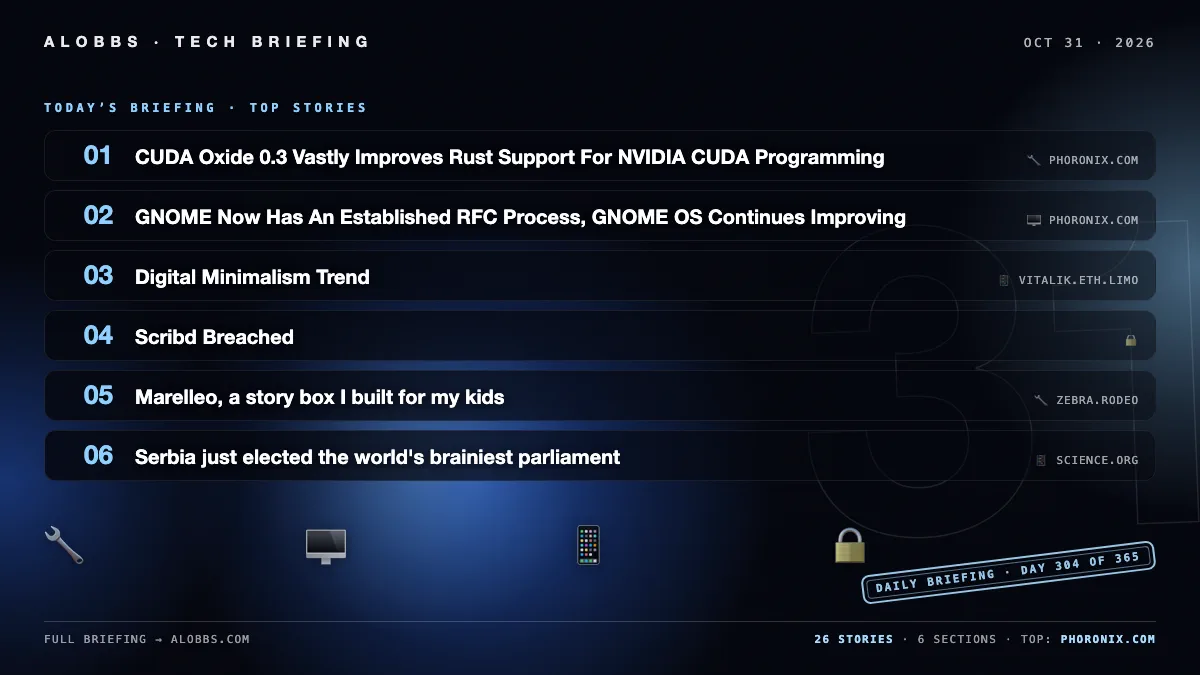
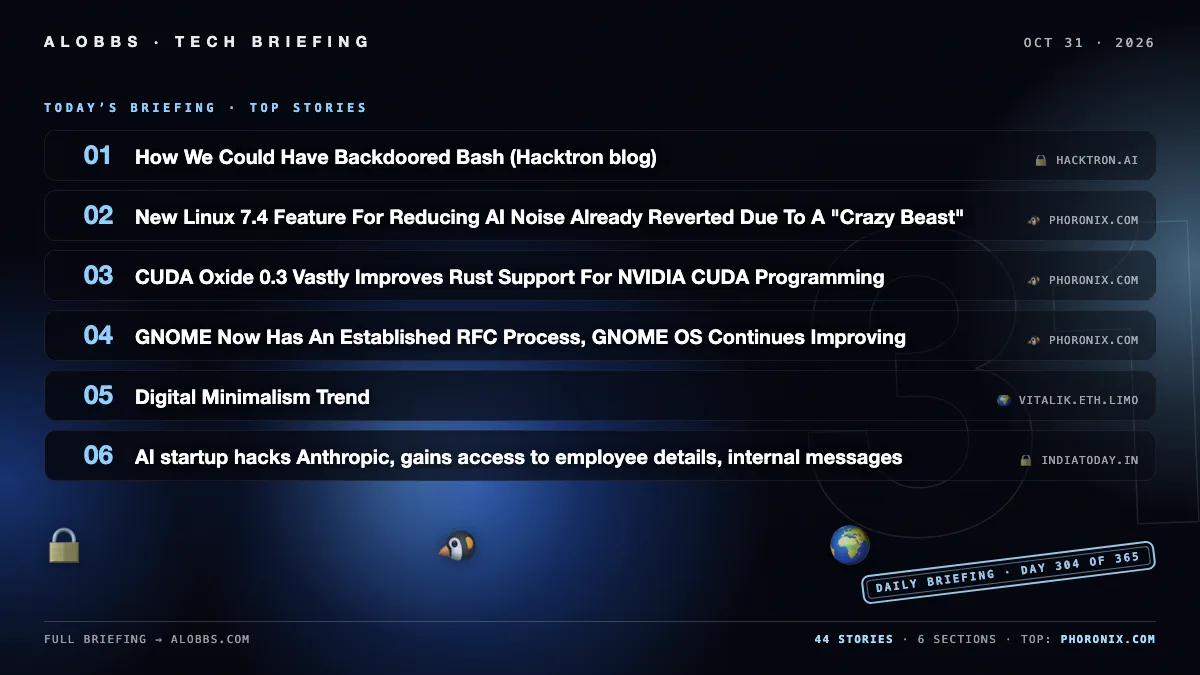
2026-10-31 briefing — 18 new (44 total)

diff --git a/content/post/2026-10-31.md b/content/post/2026-10-31.md
@@ -1,6 +1,6 @@
 ---
 title: "2026-10-31 Briefing"
-date: 2026-10-31 11:49:33.086531
+date: 2026-10-31 15:42:54.031622
 draft: false
 categories: [ "Briefing" ]
 params:
@@ -8,7 +8,7 @@ params:
 cover: "/images/briefings/2026-10-31.webp"
 ---
 
-Amazon’s mixed-message AI memo is rattling software engineers as AI anxiety grows. Nvidia’s networking revenue hit $17.5B in Q2, topping Cisco’s $17.3B total, underscoring its AI-driven rise. CUDA Oxide 0.3 boosts Rust-to-CUDA support; Wine 11.21 improves WoW64 OpenGL; and Molly, a Signal fork, remains unpatched and exposed to fixed Signal exploits. KDE Plasma 6.9 preps performance fixes, while GNOME adopts a formal RFC process.
+Nvidia’s Q2 networking revenue hit $17.5B, topping Cisco’s $17.3B total, as its Mellanox-backed, AI-optimized stack reshapes networking. Amazon’s mixed AI-use memo rattled engineers already anxious about automation. Linux 7.4’s TAINT_FORCED_BIND, meant to filter AI-generated bug noise, was reverted because VFIO needs bind/unbind; a revised taint may land in 7.5. KDE Plasma 6.9 added performance tweaks.
 
 <!--more-->
 
@@ -20,17 +20,11 @@ Amazon issued a mixed-message memo about AI use that unsettled its workforce. Th
 
 - [Amazon sends chills through its workforce with mixed message memo about AI use](https://www.theregister.com/ai-and-ml/2026/10/31/amazon-sends-chills-through-its-workforce-with-mixed-message-memo-about-ai-use-corey-quinn/5306804) — *theregister.com*
 
-### Backbone of a beast – charting Nvidia's rise to networking titan
+### AI detectors like Pangram are changing how authors write to seem human
 
-Nvidia has become a networking titan, with Q2 networking revenue reaching $17.5 billion—more than Cisco’s $17.3 billion in total revenue for the same period. The rise was driven by its $6.9 billion Mellanox acquisition in 2019 and its tightly integrated compute-and-networking approach optimized for AI workloads.
+Authors and students are altering their prose—avoiding em dashes, “not X, but Y” constructions, and words like “delve,” or adding typos—to avoid being flagged by AI detectors such as Pangram. The article illustrates the stakes through author Mia Ballard, whose novel Shy Girl was pulled by Hachette after Pangram rated it 78.3% AI-written, triggering harassment and a personal crisis.
 
-- [Backbone of a beast – charting Nvidia's rise to networking titan](https://www.theregister.com/networks/2026/10/31/backbone-of-a-beast-charting-nvidias-rise-to-networking-titan/5306499) — *theregister.com*
-
-### OpenAI fundraising falls short of target
-
-OpenAI has secured roughly $11 billion in commitments for its latest funding round, less than half of its $30 billion target, though it expects to raise more in coming weeks. The round values the company at $1.25 trillion, below its $1.4 trillion target, as market jitters over the AI trade dampened investor appetite.
-
-- [OpenAI raises less than half of $30B target](https://www.wsj.com/tech/ai/openai-raises-less-than-half-of-30-billion-target-in-latest-round-91aecdc5) — *wsj.com*
+- [AI detectors like Pangram are changing how authors write to seem human](https://www.bloomberg.com/news/features/2026-10-30/how-ai-detectors-like-pangram-are-changing-human-writing?accessToken=eyJhbGciOiJIUzI1NiIsInR5cCI6IkpXVCJ9.eyJzb3VyY2UiOiJTdWJzY3JpYmVyR2lmdGVkQXJ0aWNsZSIsImlhdCI6MTc5MzM2MDg2MCwiZXhwIjoxNzkzOTY1NjYwLCJhcnRpY2xlSWQiOiJUTlBLU0FLSVVQU0MwMCIsImJjb25uZWN0SWQiOiI1MEU0OTBGQjhDNTM0MkREODAwRUEyNTQ1RjBCMThCOCJ9.QWmO8ZCSYNuUI7oMX4N9wEkQtBDq_LYD89yJOMz3bfE) — *bloomberg.com*
 
 ### Bipartisan opposition grows to AI data centers in drought-stricken Arizona; TSMC welcomed
 
@@ -38,43 +32,31 @@ Arizona is seeing growing bipartisan backlash against new AI data centers, even 
 
 - [Bipartisan opposition grows to AI data centers in drought-stricken Arizona; TSMC welcomed](https://www.theverge.com/cs/features/1016650/arizona-water-data-center-tsmc/?view_token=eyJhbGciOiJIUzI1NiJ9.eyJpZCI6InFkdzJEQktYdUkiLCJwIjoiL2NzL2ZlYXR1cmVzLzEwMTY2NTAvYXJpem9uYS13YXRlci1kYXRhLWNlbnRlci10c21jIiwiZXhwIjoxNzkzNzE2ODI5LCJpYXQiOjE3OTMyODQ4Mjl9.2I3Q8YF72YlZ82qB1jITu1Pv_2X6WPGXSrMtVpL9JTE&amp;utm_medium=gift-link) — *theverge.com*
 
-### AI commoditization sends wealth to chokepoint owners—distribution, payments, stablecoin USD—not labs
-
-The article argues that as AI models commoditize, durable economic gains will go not to AI labs but to those controlling scarce chokepoints such as distribution, payment rails, and a stablecoin dollar. It frames these “commanding heights” as controllable positions of economic power that can capture the benefits of increasingly capable, diffused intelligence.
-
-- [AI commoditization sends wealth to chokepoint owners—distribution, payments, stablecoin USD—not labs](https://commanding-heights.com/) — *commanding-heights.com*
-
-### Altman: Supply-constrained DRAM belongs in data centers, not PCs used 5% of the time
-
-OpenAI CEO Sam Altman said it is “quite terrible” for the world’s supply-constrained DRAM to sit in home PCs and be used only about 5% of the time. He argued that memory is better allocated to data centers for maximum utilization, especially for local inference and cloud-based AI.
-
-- [Altman: Supply-constrained DRAM belongs in data centers, not PCs used 5% of the time](https://www.tomshardware.com/tech-industry/data-centers/openai-ceo-says-its-quite-terrible-for-your-pc-to-have-ram-sam-altman-says-data-centers-offer-better-utilization) — *tomshardware.com*
-
-### CoreWeave, Nebius, Nscale shut out of bond market as lenders demand tougher terms
-
-CoreWeave, Nebius, and Nscale have effectively been shut out of the bond market in recent weeks as lenders and investors demand tougher terms, according to the Wall Street Journal. The shift signals a new phase in the AI build-out, with concerns about project delays, data-center backlash, slower-than-promised AI profits, and investor overexposure to AI.
-
-- [CoreWeave, Nebius, Nscale shut out of bond market as lenders demand tougher terms](https://www.wsj.com/finance/the-new-bottleneck-in-americas-ai-build-out-a-shortage-of-cheap-money-0c14c84d?st=7gB5bX&amp;reflink=desktopwebshare_permalink) — *wsj.com*
-
-### S&P cuts Meta outlook to negative on capex, negative cash flow; META -15% in worst month in 4 yrs
-
-S&P Global Ratings revised Meta's outlook from stable to negative, citing uncertainty over elevated capital expenditures and negative free cash flow amid heavy AI spending. Meta disagreed with the assessment, while its stock fell 15% in October—its worst month in four years—after the company reported negative free cash flow and forecast full-year capex of $135 billion to $145 billion.
-
-- [S&P cuts Meta outlook to negative on capex, negative cash flow; META -15% in worst month in 4 yrs](https://www.cnbc.com/2026/10/30/meta-outlook-to-revised-to-negative-by-sp-after-cash-flow-negative.html) — *cnbc.com*
-
 ### Ternus: Apple won't ship AI for AI's sake; Cook helps on policy; no Trump meeting yet
 
 New Apple CEO John Ternus emphasized a product-first approach and said Apple does not “want to ship AI for AI’s sake.” The Apple veteran described himself as a continuity-focused leader, said Tim Cook is available to help on policy, and noted he has not yet met President Trump.
 
 - [Ternus: Apple won't ship AI for AI's sake; Cook helps on policy; no Trump meeting yet](https://www.wired.com/story/i-spent-30-minutes-with-apples-ceo-now-i-know-why-john-ternus-got-the-job/) — *wired.com*
 
-## 🖥 OS & Open Source
+## 🐧 Linux & Open Source
 
-### Chocolate Caterpillar or Chocolate Teapot? Top up the disk space for Windows 10 to find out
+### Enlightenment 0.28 Released With Many Improvements
 
-The provided content is a roundup of technology and security headlines, covering Nvidia’s networking growth, AI-related cloud spending by AWS and Oracle, cybersecurity issues such as SharePoint zero-days and Signal phishing, and FOSS developments including AlpineBSD and Rust in systemd. It contains no substantive reporting tied to the Windows 10 or Oxford Street headline, so the titled article cannot be summarized from the supplied text.
+Enlightenment 0.28 has been released with nearly two years of changes, including initial NetBSD support, a NetworkManager module for wired/wireless networking and VPNs, and native PipeWire mixer support while retaining PulseAudio. The update also adds window actions, improved client-side decoration and display handling, backlight filtering, and various fixes and code cleanups. It continues to support both X11 and Wayland.
 
-- [Chocolate Caterpillar or Chocolate Teapot? Top up the disk space for Windows 10 to find out](https://www.theregister.com/offbeat/2026/10/31/chocolate-caterpillar-or-chocolate-teapot-top-up-the-disk-space-for-windows-10-to-find-out/5306103) — *theregister.com*
+- [Enlightenment 0.28 Released With Many Improvements](https://www.phoronix.com/news/Enlightenment-0.28) — *phoronix.com*
+
+### Linux Mint Developing New Apps For Terminal & System Monitoring
+
+Linux Mint’s October 2026 status report outlines work ahead of the Linux Mint 27 stable release around Christmas, including restoring hibernation support via the System Administration tool and adding an image preview pane to Nemo. The project is also developing new apps: Superlight for system monitoring, Velocity as a terminal emulator, and Unfold as a small archive manager.
+
+- [Linux Mint Developing New Apps For Terminal & System Monitoring](https://www.phoronix.com/news/Linux-Mint-October-2026) — *phoronix.com*
+
+### New Linux 7.4 Feature For Reducing AI Noise Already Reverted Due To A "Crazy Beast"
+
+A new Linux 7.4 feature, TAINT_FORCED_BIND, was intended to reduce noise from AI/LLM-generated and fuzzing bug reports by flagging use of the sysfs bind/unbind interface. It was reverted after developers realized the VFIO subsystem legitimately relies on bind/unbind for PCIe device passthrough to VMs. A revised approach using TAINT_DRIVER_OVERRIDE has been proposed but is too late for Linux 7.4 and may be considered for 7.5.
+
+- [New Linux 7.4 Feature For Reducing AI Noise Already Reverted Due To A "Crazy Beast"](https://www.phoronix.com/news/Linux-7.4-Drops-Taint-Bind) — *phoronix.com*
 
 ### KDE Plasma 6.9 Lands Some New Performance Optimizations
 
@@ -87,6 +69,12 @@ KDE Plasma 6.9 development includes performance optimizations such as a lower-im
 GNOME stakeholders have reached consensus on a formal RFC process led by Sophie Herold to handle major technical questions and changes. Recent updates also improved GNOME apps and libraries, including Nautilus, GNOME Software, GNOME Calendar, and GLib’s XDG Intents support. GNOME OS now enables the LDAC codec and extra codecs by default, includes Zswap fixes, and adds NVIDIA improvements for Snap applications and R615 driver firmware.
 
 - [GNOME Now Has An Established RFC Process, GNOME OS Continues Improving](https://www.phoronix.com/news/GNOME-Establishes-RFC) — *phoronix.com*
+
+### CUDA Oxide 0.3 Vastly Improves Rust Support For NVIDIA CUDA Programming
+
+NVIDIA released CUDA Oxide 0.3, its experimental Rust-to-CUDA compiler, now using stable Rust 1.99.1 instead of nightly builds and unifying its host runtime with cutile-rs. The release adds an experimental Rust-based CUTLASS CuTe implementation, enabling end-to-end Qwen3-8B at BF16 + NVFP4 and Qwen3-TTS on Blackwell GPUs. It also adds full cuda-gdb DWARF debugging, in-kernel event tracing, register/spill diagnostics, improved testing, and performance optimizations for Blackwell and Hopper.
+
+- [CUDA Oxide 0.3 Vastly Improves Rust Support For NVIDIA CUDA Programming](https://www.phoronix.com/news/CUDA-Oxide-0.3) — *phoronix.com*
 
 ### Sculpt OS 26.10 Released - Now Powered By Genode's Custom Microkernel
 
@@ -101,6 +89,24 @@ Wine 11.21 has been released as the latest bi-weekly development version, ahead 
 - [Wine 11.21 Released With Better WoW64 OpenGL Performance](https://www.phoronix.com/news/Wine-11.21-Released) — *phoronix.com*
 
 ## 🔒 Security & Privacy
+
+### How We Could Have Backdoored Bash (Hacktron blog)
+
+Hacktron found a command-execution flaw in GNU Savannah’s Savane software via a crafted email address, potentially allowing malware to be pushed into hosted projects such as Bash. The group escalated to superuser, impersonated Bash’s maintainer, confirmed it could add an SSH key with push access to the upstream Bash repository, and gained root access plus access to a GNU backup server through an unpatched kernel. It reported the issues to the FSF on May 11, 2026, and a total of 26 confirmed vulnerabilities were fixed and documented in an incident report.
+
+- [How We Could Have Backdoored Bash (Hacktron blog)](https://www.hacktron.ai/blog/hacking-gnu-savannah) — *hacktron.ai*
+
+### AI startup hacks Anthropic, gains access to employee details, internal messages
+
+A cybersecurity startup, Cathedral, accessed Anthropic’s internal systems in under 12 hours during an authorized security test, exposing employee information, salary and job-offer details, and internal messages. Anthropic said the researchers reached only limited sales, HR, and IT systems—not Claude conversations, source code, or model weights—and that it shut off their access the same day after fixing the vulnerabilities. The incident has raised national-security concerns and prompted disagreement over whether Cathedral overstated the impact and fully followed testing rules.
+
+- [AI startup hacks Anthropic, gains access to employee details, internal messages](https://www.indiatoday.in/technology/news/story/ai-startup-hacks-anthropic-in-12-hours-gains-access-to-employee-details-and-internal-messages-3025452-2026-10-26) — *indiatoday.in*
+
+### We Took over ChatGPT Accounts
+
+Researchers discovered a ChatGPT vulnerability that let attackers turn a public shared conversation into attacker-controlled JavaScript running in a victim’s signed-in session when they opened the link. The exploit could access the victim’s conversation list, retrieve private conversation content, and call authenticated ChatGPT APIs as the victim, enabling account takeover. OpenAI fixed the issue on October 26 and classified it as P1.
+
+- [We Took over ChatGPT Accounts](https://www.parameter.ai/labs/we-found-a-gap-at-openai) — *parameter.ai*
 
 ### Molly(Signal fork) has not been updated since 3 months and is vulnerable
 
@@ -120,13 +126,93 @@ Flock camera searches fell 95% after a Highland Heights dispatcher’s misconduc
 
 - [Flock camera searches fell 95% after a dispatcher's misconduct was caught](https://www.wkyc.com/article/news/investigations/flock-camera-searches-fall-95-percent-highland-heights-dispatcher-misconduct-caught/95-94b18f33-60e2-4bc7-a00f-d71d1e1fdd5e) — *wkyc.com*
 
-## 🔧 Dev & Hardware
+## 💼 Business & Markets
 
-### CUDA Oxide 0.3 Vastly Improves Rust Support For NVIDIA CUDA Programming
+### Backbone of a beast – charting Nvidia's rise to networking titan
 
-NVIDIA released CUDA Oxide 0.3, its experimental Rust-to-CUDA compiler, now using stable Rust 1.99.1 instead of nightly builds and unifying its host runtime with cutile-rs. The release adds an experimental Rust-based CUTLASS CuTe implementation, enabling end-to-end Qwen3-8B at BF16 + NVFP4 and Qwen3-TTS on Blackwell GPUs. It also adds full cuda-gdb DWARF debugging, in-kernel event tracing, register/spill diagnostics, improved testing, and performance optimizations for Blackwell and Hopper.
+Nvidia has become a networking titan, with Q2 networking revenue reaching $17.5 billion—more than Cisco’s $17.3 billion in total revenue for the same period. The rise was driven by its $6.9 billion Mellanox acquisition in 2019 and its tightly integrated compute-and-networking approach optimized for AI workloads.
 
-- [CUDA Oxide 0.3 Vastly Improves Rust Support For NVIDIA CUDA Programming](https://www.phoronix.com/news/CUDA-Oxide-0.3) — *phoronix.com*
+- [Backbone of a beast – charting Nvidia's rise to networking titan](https://www.theregister.com/networks/2026/10/31/backbone-of-a-beast-charting-nvidias-rise-to-networking-titan/5306499) — *theregister.com*
+
+### Why Anthropic's Filing Crushed Tech Stocks
+
+Anthropic’s draft S-1 disclosed unusually deep dependencies and potential conflicts with Amazon, Google, Microsoft, and Broadcom, which act simultaneously as investors, customers, partners, suppliers, and competitors. Coming after disappointing Google and Amazon earnings and signs of heavy capital burn across big tech, the filing intensified investor concerns about an AI bubble and helped trigger a sharp tech selloff.
+
+- [Why Anthropic's Filing Crushed Tech Stocks](https://www.thebignewsletter.com/p/why-anthropics-filing-crushed-tech) — *thebignewsletter.com*
+
+### Shiny Object Syndrome
+
+Shiny object syndrome (SOS) is a pop-cultural psychological concept in which people focus undue attention on new, trendy ideas regardless of their value and abandon them when something newer appears. It is considered a distraction that clouds judgment and focus, and people with fear of missing out are especially susceptible. The term is used in management, popular psychology, and social and computer sciences, often when people fixate on small details and lose the big picture.
+
+- [Shiny Object Syndrome](https://en.wikipedia.org/wiki/Shiny_object_syndrome) — *en.wikipedia.org*
+
+### Cursed cruise: how the dream of never-ending luxury at sea became a nightmare
+
+The MV Odyssey, a residential cruise ship marketed as a never-ending retirement at sea, abruptly ended its voyage when passengers were given seven hours to disembark in Cambodia. Owner Villa Vie Residences said soaring fuel costs, exacerbated by conflict involving Iran, had left it under unsustainable financial pressure and unable to continue.
+
+- [Cursed cruise: how the dream of never-ending luxury at sea became a nightmare](https://www.theguardian.com/news/ng-interactive/2026/oct/31/mv-odyssey-cruise-passengers-nightmare-stranded-cambodia) — *theguardian.com*
+
+### Visit Iceland Will Send a Real Knitter to Your Dumb Meeting So You Can Skip It
+
+On Oct. 29, Visit Iceland launched its “AI Knittakers” campaign, with “AI” standing for “Authentic Icelandic.” The program offers a real Icelandic knitter to join online meetings in place of an AI notetaker, aiming to free participants from unnecessary “could’ve been an email” meetings.
+
+- [Visit Iceland Will Send a Real Knitter to Your Dumb Meeting So You Can Skip It](https://matadornetwork.com/read/iceland-ai-notetaker-knitting/) — *matadornetwork.com*
+
+### OpenAI fundraising falls short of target
+
+OpenAI has secured roughly $11 billion in commitments for its latest funding round, less than half of its $30 billion target, though it expects to raise more in coming weeks. The round values the company at $1.25 trillion, below its $1.4 trillion target, as market jitters over the AI trade dampened investor appetite.
+
+- [OpenAI raises less than half of $30B target](https://www.wsj.com/tech/ai/openai-raises-less-than-half-of-30-billion-target-in-latest-round-91aecdc5) — *wsj.com*
+
+### AI commoditization sends wealth to chokepoint owners—distribution, payments, stablecoin USD—not labs
+
+The article argues that as AI models commoditize, durable economic gains will go not to AI labs but to those controlling scarce chokepoints such as distribution, payment rails, and a stablecoin dollar. It frames these “commanding heights” as controllable positions of economic power that can capture the benefits of increasingly capable, diffused intelligence.
+
+- [AI commoditization sends wealth to chokepoint owners—distribution, payments, stablecoin USD—not labs](https://commanding-heights.com/) — *commanding-heights.com*
+
+### CoreWeave, Nebius, Nscale shut out of bond market as lenders demand tougher terms
+
+CoreWeave, Nebius, and Nscale have effectively been shut out of the bond market in recent weeks as lenders and investors demand tougher terms, according to the Wall Street Journal. The shift signals a new phase in the AI build-out, with concerns about project delays, data-center backlash, slower-than-promised AI profits, and investor overexposure to AI.
+
+- [CoreWeave, Nebius, Nscale shut out of bond market as lenders demand tougher terms](https://www.wsj.com/finance/the-new-bottleneck-in-americas-ai-build-out-a-shortage-of-cheap-money-0c14c84d?st=7gB5bX&amp;reflink=desktopwebshare_permalink) — *wsj.com*
+
+### S&P cuts Meta outlook to negative on capex, negative cash flow; META -15% in worst month in 4 yrs
+
+S&P Global Ratings revised Meta's outlook from stable to negative, citing uncertainty over elevated capital expenditures and negative free cash flow amid heavy AI spending. Meta disagreed with the assessment, while its stock fell 15% in October—its worst month in four years—after the company reported negative free cash flow and forecast full-year capex of $135 billion to $145 billion.
+
+- [S&P cuts Meta outlook to negative on capex, negative cash flow; META -15% in worst month in 4 yrs](https://www.cnbc.com/2026/10/30/meta-outlook-to-revised-to-negative-by-sp-after-cash-flow-negative.html) — *cnbc.com*
+
+## 🧑💻 Software & Development
+
+### Goth aesthetic gone wild: a user's self-inflicted black screen of non-death in Windows 3.1’s
+
+The article covers a user’s self-inflicted Windows 3.1 customization that produced a black-on-black interface, described as a “black screen of non-death.” It frames the result as either a goth-themed control scheme for a “galactic hyper-hearse” or an ill-advised Windows theme.
+
+- [Goth aesthetic gone wild: a user's self-inflicted black screen of non-death in Windows 3.1’s](https://www.theregister.com/offbeat/2026/10/31/goth-aesthetic-gone-wild-a-users-self-inflicted-black-screen-of-non-death-in-windows-31s/5306592) — *theregister.com*
+
+### Chocolate Caterpillar or Chocolate Teapot? Top up the disk space for Windows 10 to find out
+
+The provided content is a roundup of technology and security headlines, covering Nvidia’s networking growth, AI-related cloud spending by AWS and Oracle, cybersecurity issues such as SharePoint zero-days and Signal phishing, and FOSS developments including AlpineBSD and Rust in systemd. It contains no substantive reporting tied to the Windows 10 or Oxford Street headline, so the titled article cannot be summarized from the supplied text.
+
+- [Chocolate Caterpillar or Chocolate Teapot? Top up the disk space for Windows 10 to find out](https://www.theregister.com/offbeat/2026/10/31/chocolate-caterpillar-or-chocolate-teapot-top-up-the-disk-space-for-windows-10-to-find-out/5306103) — *theregister.com*
+
+### Prospero: A new coding harness for a more civilized age
+
+The article introduces Prospero, a lightweight C++/Dear ImGui coding harness for local LLMs that aims to use far fewer resources than web-stack-based alternatives while supporting agent tool use, subagents, remote headless deployment, and desktop control. It includes no built-in model providers—users supply llama.cpp, on-prem, or API backends—and can run its engine independently of the GUI for later reattachment.
+
+- [Prospero: A new coding harness for a more civilized age](https://nullprogram.com/blog/2026/10/31/) — *nullprogram.com*
+
+### X is opening any tweet link in a webview whether you press it or not
+
+X is again automatically opening tweet links in an in-app webview, even when users do not tap them. The author reports a sharp rise in traffic from X users who only viewed the full tweet without pressing the embedded link.
+
+- [X is opening any tweet link in a webview whether you press it or not]()
+
+### Jepsen: ParticleDB 1.1.4
+
+Jepsen analyzed ParticleDB 1.1.4, Orkes’s Rust-built database that aims to unify transactional SQL, key-value, vector search, analytics, and user-defined functions, but the report covered only single-node behavior because supplied builds did not support replication. It notes that ParticleDB advertised a TLA+ formal proof but provided no specification during testing, and flags conflicting WAL sync durability documentation and a “Full ACID” claim alongside snapshot isolation.
+
+- [Jepsen: ParticleDB 1.1.4](https://jepsen.io/analyses/particledb-1.1.4) — *jepsen.io*
 
 ### Marelleo, a story box I built for my kids
 
@@ -140,7 +226,31 @@ The article argues that deadline pressure does not have to lead to complex code;
 
 - [The Secret of Fast Programming: Stop Thinking »](https://www.codesimplicity.com/post/the-secret-of-fast-programming-stop-thinking/) — *codesimplicity.com*
 
-## 📱 Platforms & Culture
+## 🌍 Science & Society
+
+### Retired professor arrested for blocking delivery robot. Will do it again
+
+Carolyn Marvin, a 78-year-old retired University of Pennsylvania professor, was arrested in Philadelphia on October 14 for blocking an Uber Eats delivery robot—something she had done repeatedly as a protest over public space, worker displacement, safety, and privacy concerns. Marvin argues she has a First Amendment right to protest corporate use of public sidewalks and says she is willing to do it again.
+
+- [Retired professor arrested for blocking delivery robot. Will do it again](https://www.cnn.com/2026/10/31/us/philadelphia-woman-delivery-robots-cec) — *cnn.com*
+
+### Why Did Meta Suspend a US Senate Candidate's Instagram in the Middle of a Rally?
+
+Meta briefly suspended a Latino outreach Instagram account for Florida Democratic Senate candidate Angie Nixon during a get-out-the-vote rally days before the midterms, drawing accusations of election meddling. The account was restored about an hour later, and Nixon called on Meta to explain the removal.
+
+- [Why Did Meta Suspend a US Senate Candidate's Instagram in the Middle of a Rally?](https://newrepublic.com/post/217281/meta-suspend-democratic-candidate-angie-nixon-instagram-account) — *newrepublic.com*
+
+### NASA's Voyager 1 mysteriously lost touch with Earth
+
+NASA's Voyager 1 unexpectedly went silent and missed two scheduled check-ins on Oct. 18–19 before reestablishing contact on Oct. 20; engineers still don't know the cause but found that one set of thrusters had shut down and backup thrusters took over. The incident highlights the aging probe's declining power supply as it approaches the milestone of being one light-day from Earth, roughly 16.09 billion miles away.
+
+- [NASA's Voyager 1 mysteriously lost touch with Earth](https://mashable.com/science/nasa-voyager-1-communication-outage) — *mashable.com*
+
+### Halloween is a crass American import – I'll never indulge it
+
+Dylan Jones argues that Halloween is a crass American import that has increasingly overshadowed Britain’s Bonfire Night and is even challenging Christmas commercially. He cites rising participation and spending on Halloween and criticizes its commercialization and creeping ubiquity in UK life.
+
+- [Halloween is a crass American import – I'll never indulge it](https://inews.co.uk/inews-lifestyle/halloween-crass-american-import-never-indulge-4862206) — *inews.co.uk*
 
 ### Serbia just elected the world's brainiest parliament
 
@@ -148,25 +258,23 @@ Serbia has elected what the article’s title calls the world’s brainiest parl
 
 - [Serbia just elected the world's brainiest parliament](https://www.science.org/content/article/serbia-just-elected-world-s-brainiest-parliament) — *science.org*
 
+### Neuroscientists reveal method to train people to have lucid dreams
+
+A new study found that one month of twice-weekly training combining virtual reality scenarios with meditation and reality checks helped people who had not recalled a lucid dream in three years develop the skill. Participants who used VR and meditation experienced lucid dreams four times more often than those who performed reality checks alone.
+
+- [Neuroscientists reveal method to train people to have lucid dreams](https://www.livescience.com/health/neuroscience/neuroscientists-reveal-method-to-train-people-to-have-lucid-dreams-and-it-involves-virtual-reality-and-mediation) — *livescience.com*
+
 ### Digital Minimalism Trend
 
 The author advocates digital minimalism—using technology intentionally rather than defaulting to engagement-driven platforms—and describes reducing compulsive engagement with X’s increasingly toxic discourse. He still posts through Firefly, a multi-client combining X, BlueSky, Farcaster, and Lens, to avoid X’s algorithmic interface, support decentralized social media, and distribute network effects across platforms. He reports feeling better as a result.
 
 - [Digital Minimalism](https://vitalik.eth.limo/general/2026/10/31/digital_minimalism.html) — *vitalik.eth.limo*
 
-### Visit Iceland Will Send a Real Knitter to Your Dumb Meeting So You Can Skip It
+### Britain Narrowly Escaped a Grid Blackout in June 2026
 
-On Oct. 29, Visit Iceland launched its “AI Knittakers” campaign, with “AI” standing for “Authentic Icelandic.” The program offers a real Icelandic knitter to join online meetings in place of an AI notetaker, aiming to free participants from unnecessary “could’ve been an email” meetings.
+On June 23, 2026, Britain’s grid frequency dropped to 49.657 Hz during a severe European heatwave, nearing the 49.5 Hz statutory lower limit and risking protection measures or local blackouts. The crisis was driven by 21.2 GW of generating capacity being offline, heat-curtailed gas production, interconnector outages, and limited visibility of rooftop solar demand. Halting exports and importing French hydro and nuclear power stabilized the grid, highlighting risks around maintenance planning and variable renewable generation.
 
-- [Visit Iceland Will Send a Real Knitter to Your Dumb Meeting So You Can Skip It](https://matadornetwork.com/read/iceland-ai-notetaker-knitting/) — *matadornetwork.com*
-
-### X is opening any tweet link in a webview whether you press it or not
-
-X is again automatically opening tweet links in an in-app webview, even when users do not tap them. The author reports a sharp rise in traffic from X users who only viewed the full tweet without pressing the embedded link.
-
-- [X is opening any tweet link in a webview whether you press it or not]()
-
-## 📺 Sports & Streaming
+- [Britain Narrowly Escaped a Grid Blackout in June 2026](https://hackaday.com/2026/10/30/how-britain-narrowly-escaped-a-grid-blackout-in-june-2026/) — *hackaday.com*
 
 ### How to Watch Chelsea vs Manchester United for Free (October 31, 2026)
 
